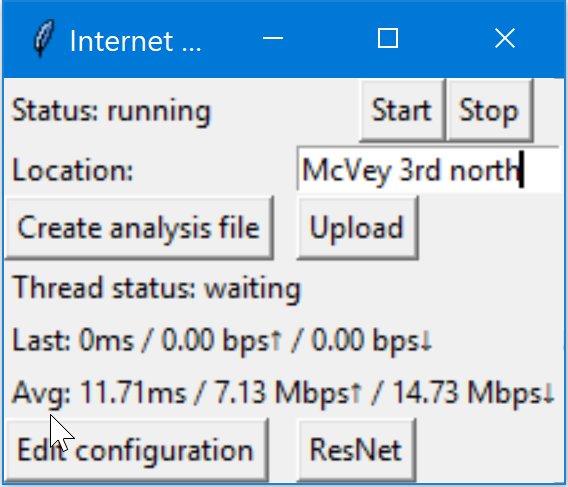
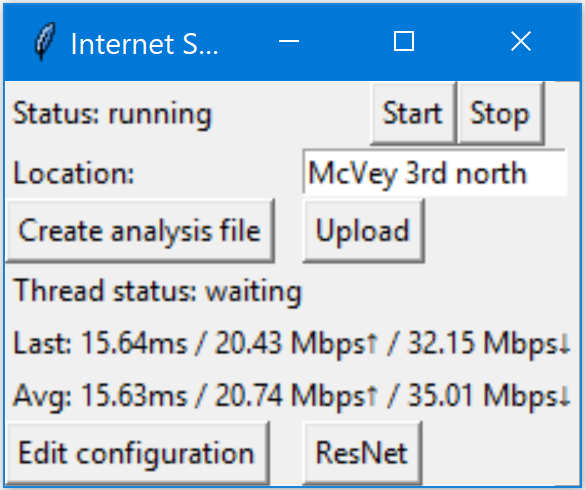
Improvements to documentation

diff --git a/docs/help.md b/docs/help.md
@@ -7,6 +7,10 @@
     1.3 [The ResNet Button](#the-resnet-button)  
     1.4 [Create Analysis File Button](#create-analysis-file-button)  
     1.5 [Example Usage](#example-usage)  
+2. [What do the Numbers Mean?](#what-do-the-numbers-mean)  
+    2.1 [Why Are There Two Rows?](#why-are-there-two-rows)  
+    2.2 [What Are The Numbers?](#what-are-the-numbers)  
+    2.3 [What Are "Good" Speeds?](#what-are-good-speeds)  
 
 # Basic Usage
 <div style="text-align:center">
@@ -55,3 +59,59 @@ The way I typically use the program is as follows:
 
 [downloads]: github.com/mishaturnbull/PySpeedTest/releases/latest
 [running]: gettingstarted.html#running
+
+# What Do The Numbers Mean?
+
+The values displayed are the actual speeds resulting from the most recent, and overall average of all current internet tests.  They typically look something like this:
+
+> Last: 15.63ms / 13.61Mbps↑ / 10.25Mbps↓  
+> Avg: 18.29ms / 11.18Mbps↑ / 12.21Mbps↓  
+
+## Why are There Two Rows?
+
+The "Last:" row: displays the most recent speed test.  
+The "Avg:" row: displays a running average of all tests made *this session*.  This resets every time you close the application.
+
+## What are the numbers?
+
+The rows are both formatted as follows:
+
+> Last: Ping time / Upload speed↑ / Download speed↓  
+
+Ping time: The duration it takes for your computer to establish a connection with the outside world.  Typically measured in milliseconds.  Lower is better, unlike the speeds.
+
+Upload speed: The rate at which data is being sent from your computer to the outside world (uploading).  Typically measured in megabits per second.  Think of it as the speed that you can upload a documet to BlackBoard at.
+
+Download speed: The rate at which data is being sent from the outside world to your computer.  Typically measured in megabits per second.  Think of it as the speed that you can download a game at.  This is the most common measure of speed and frequently the most important, since people tend to download a lot more than they upload (watching YouTube, Netflix, etc. as opposed to uploading an essay).
+
+### Units used:
+
+For ping times: milliseconds (ms)
+
+For network speeds: measured in SI-prefixed bits per second rates:
+
+  - Gbps: gigabit per second.  This is rare and extremely fast.
+  - Mbps: megabit per second.  Most common.
+  - Kbps: kilobit per second.  Pretty bad.
+  - bps: Bit per second.  Probably faster to send your Facebook messages via snailmail.
+
+## What are "Good" Speeds?
+
+Well, that depends who you ask.
+
+For reference, the FCC [defines broadband internet][fcc-broadband] as 3Mbps upload, and 25Mbps download.  [Speedtest.net][speedtest-fixed] cites the United States average speed as being 64.17Mbps download and 22.79Mbps upload.  Further, they cite US Internet as the fastest ISP in Minneapolis, offering download speeds of 65.51Mbps.  
+
+So how much is "fast"?  Again, that depends on who you ask, what you're doing, and how impatient you are.  To put these speeds in context, the typical 5-page essay in Microsoft Word is approximately 35 kilobytes.  At a speed of 3 megabits per second upload, this could be sent to a server in 0.0116 seconds.  If you were to download the same document at a speed of 25 megabits per second, it would take 0.0014 seconds.  However, Word documents are just text (with some special bits).  Other items, such as images, are frequently much larger.  Higher-resolution, large images can be upwards of 6 or 7 megabytes, taking 2.08 seconds to download.  
+
+All that assumes that you're the only person on the internet, sending and receving data with perfect transmission rates and the speed never differs from what it is set to.  In reality, I live in a dorm with ~300 other people who are also using the internet, and don't have a perfect transmission rate.
+
+So, depending on what you're doing, the common accepted "fast" speeds might look something like:
+
+|        Activity        | Best upload | Best download | Best ping |
+| ---------------------- | ----------- | ------------- | --------- |
+| Homework (Google Docs) |  >= 5 Mpbs  |   >= 5 Mpbs   | <= 20 ms  |
+| Streaming video        |  >= 1 Mpbs  | >= 10-20 Mbps | <= 15 ms  |
+| Online gaming          |  >= 15 Mbps |  >= 25 Mbps   | <= 12 ms  |
+
+[fcc-broadband]: https://apps.fcc.gov/edocs_public/attachmatch/FCC-15-10A1_Rcd.pdf
+[speedtest-fixed]: http://www.speedtest.net/reports/united-states/#fixed

diff --git a/docs/macs.md b/docs/macs.md
@@ -1,10 +1,10 @@
 [Back to main page](index.html)
 
 # Table of contents
-1. [Why is this necessary?](#why-is-this-necessary)  
+1. [What's Wrong?](#whats-wrong)
 2. [What do I have to do?](#what-do-i-have-to-do)
 
-# Why is this necessary?
+# What's Wrong?
 
 tl;dr: Apple wants $99/year from me that I don't have.
 
@@ -16,10 +16,13 @@ As a result of my not-giving-them-money, I cannot get what is known as an "Apple
 
 If you trust me (which I do), and want to run my program (which I do), here's what you can do:
 
-1. Open **Preferences**
-2. Go to **Security & Privacy**
-3. Go to the **General** tab (it's the default)
-4. Click the **Open Anyway** button next to the warning message about PySpeedTest
+1. Launch the program, so it displays the untrusted developer warning message
+2. Open **Preferences**
+3. Go to **Security & Privacy**
+4. Go to the **General** tab (it's the default)
+5. Click the **Open Anyway** button next to the warning message about PySpeedTest
+
+The program should now run free of warnings.
 
 <div style="text-align:center">
     <img src ="https://github.com/mishaturnbull/PySpeedTest/raw/master/docs/security_privacy.png" />
